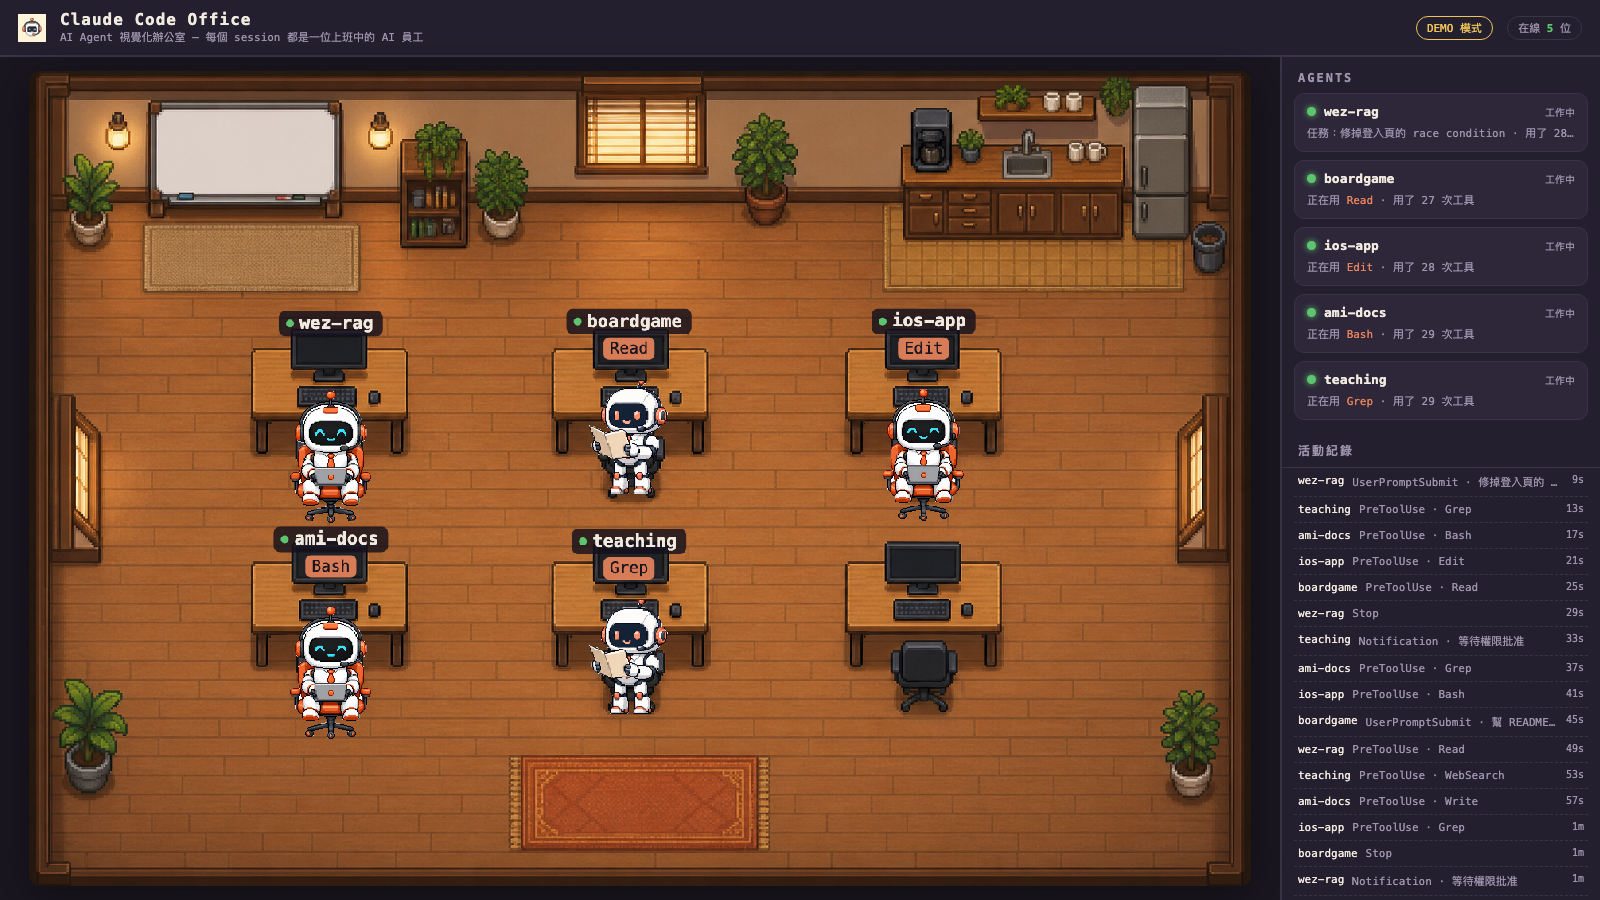
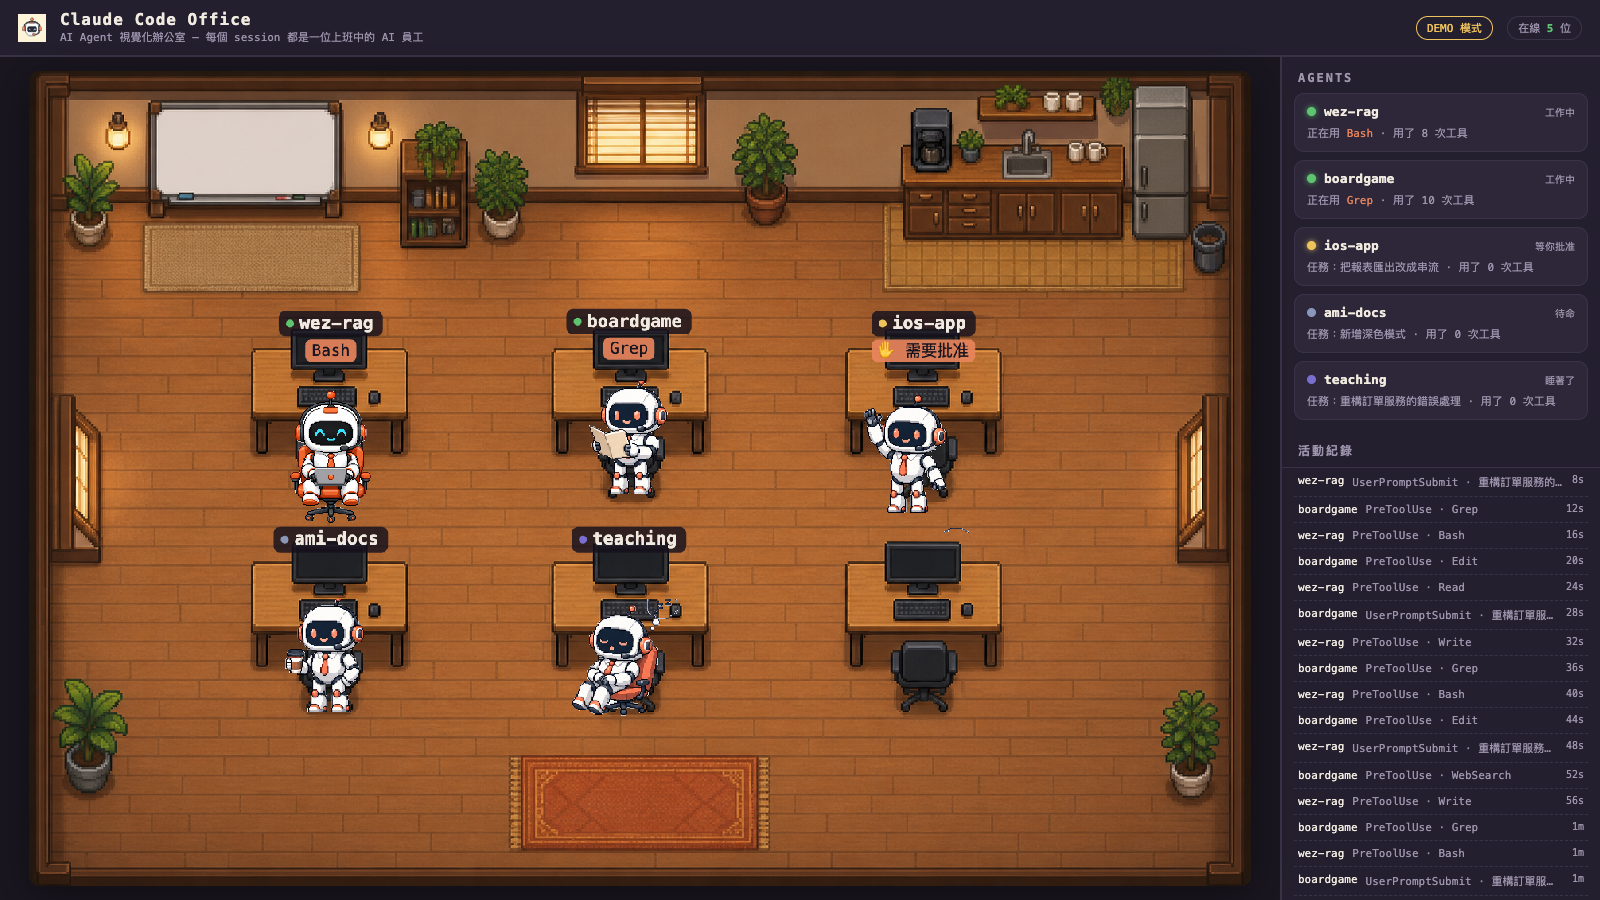
feat: 一鍵 hooks 安裝器 + demo 首屏五狀態展示 + README 接入流程通用化
- scripts/install-hooks.js：安全合併目標專案 settings.json、備份、idempotent
- demo 開場即展示 working/waiting/idle/sleeping 全部狀態
- README：安裝器指令、隱私說明、6 工位上限、撞名區分；更新主截圖
- reducer 撞名 disambiguate 測試 x3（20/20 綠）

diff --git a/scripts/install-hooks.js b/scripts/install-hooks.js
@@ -1,0 +1,113 @@
+#!/usr/bin/env node
+// 一鍵把 Claude Code Office 的 hooks 裝進「目標專案」的 .claude/settings.json。
+//
+//   node scripts/install-hooks.js <目標專案絕對路徑>
+//   node scripts/install-hooks.js .            # 裝進目前目錄的專案
+//
+// 特性：
+// - hook command 用「本 repo 的絕對路徑」自動填好，買家不用手改。
+// - 目標若已有 settings.json / 既有 hooks，安全合併：不覆蓋別的 hook，
+//   只加入本產品這支 office-hook.js（已存在就跳過，可重跑不重複）。
+// - 動目標檔前先備份成 settings.json.bak.<timestamp>。
+// - 全程印出做了什麼 + 最後給一句 round-trip 驗證指示。
+
+import { readFileSync, writeFileSync, existsSync, mkdirSync, copyFileSync } from 'node:fs';
+import { dirname, join, resolve, isAbsolute } from 'node:path';
+import { fileURLToPath } from 'node:url';
+
+const REPO_ROOT = resolve(dirname(fileURLToPath(import.meta.url)), '..');
+const HOOK_PATH = join(REPO_ROOT, 'hooks', 'office-hook.js');
+const HOOK_EVENTS = [
+  'SessionStart',
+  'UserPromptSubmit',
+  'PreToolUse',
+  'Notification',
+  'Stop',
+  'SessionEnd',
+];
+
+function fail(msg) {
+  console.error(`✗ ${msg}`);
+  process.exit(1);
+}
+
+function officeHookCommand() {
+  // 路徑含空白也安全：用雙引號包起來。
+  return `node "${HOOK_PATH}"`;
+}
+
+// 這一格（單一 event）裡是否已經有本產品的 hook？用 office-hook.js 這個檔名判斷，
+// 避免和買家自己的其他 hook 混淆，也讓重跑時 idempotent。
+function alreadyInstalled(entries) {
+  if (!Array.isArray(entries)) return false;
+  return entries.some((group) =>
+    Array.isArray(group?.hooks) &&
+    group.hooks.some((h) => typeof h?.command === 'string' && h.command.includes('office-hook.js')),
+  );
+}
+
+function officeHookGroup() {
+  return { hooks: [{ type: 'command', command: officeHookCommand() }] };
+}
+
+function mergeHooks(settings) {
+  const next = { ...settings, hooks: { ...(settings.hooks || {}) } };
+  const summary = [];
+  for (const eventName of HOOK_EVENTS) {
+    const existing = Array.isArray(next.hooks[eventName]) ? next.hooks[eventName] : [];
+    if (alreadyInstalled(existing)) {
+      summary.push(`  = ${eventName}（已裝，跳過）`);
+      continue;
+    }
+    next.hooks[eventName] = [...existing, officeHookGroup()];
+    summary.push(existing.length
+      ? `  + ${eventName}（併入既有 ${existing.length} 組 hook）`
+      : `  + ${eventName}`);
+  }
+  return { next, summary };
+}
+
+function main() {
+  const arg = process.argv[2];
+  if (!arg) {
+    fail('請給目標專案路徑：node scripts/install-hooks.js <目標專案絕對路徑>');
+  }
+  if (!existsSync(HOOK_PATH)) {
+    fail(`找不到 hook 檔：${HOOK_PATH}（是不是 repo 結構被動過？）`);
+  }
+
+  const targetProject = isAbsolute(arg) ? arg : resolve(process.cwd(), arg);
+  if (!existsSync(targetProject)) {
+    fail(`目標專案不存在：${targetProject}`);
+  }
+
+  const claudeDir = join(targetProject, '.claude');
+  const settingsPath = join(claudeDir, 'settings.json');
+  mkdirSync(claudeDir, { recursive: true });
+
+  let settings = {};
+  if (existsSync(settingsPath)) {
+    try {
+      settings = JSON.parse(readFileSync(settingsPath, 'utf8'));
+    } catch (err) {
+      fail(`目標 settings.json 不是合法 JSON，先修好再跑：${settingsPath}\n  ${err.message}`);
+    }
+    const backup = `${settingsPath}.bak.${Date.now()}`;
+    copyFileSync(settingsPath, backup);
+    console.log(`↩ 已備份既有設定：${backup}`);
+  }
+
+  const { next, summary } = mergeHooks(settings);
+  writeFileSync(settingsPath, `${JSON.stringify(next, null, 2)}\n`);
+
+  console.log(`\n✓ hooks 已寫入：${settingsPath}`);
+  console.log(`  hook 指令：${officeHookCommand()}`);
+  console.log(summary.join('\n'));
+  console.log('\n下一步（round-trip 驗證，別只信這行輸出）：');
+  console.log(`  1. cd ${REPO_ROOT} && npm start   # 要接真實事件必須 npm start（demo 模式看不到真實 session）`);
+  console.log(`  2. 在「${targetProject}」開一個 Claude Code session、送一則訊息`);
+  console.log('  3. 打開 http://localhost:4680 —— 該專案的員工應該走進辦公室');
+  console.log('     （沒出現就檢查：server 有沒有在跑、events.jsonl 有沒有新行）');
+}
+
+main();

diff --git a/src/demo.js b/src/demo.js
@@ -27,16 +27,14 @@ function pick(list, i) {
 export function createDemoFeed(now = Date.now()) {
   const events = [];
   const startedAt = now - 60_000;
+  const SLEEP_AGO = 12 * 60 * 1000; // 讓 demo-4 一開場就「睡著」（超過 10 分鐘沒動靜）
 
   DEMO_PROJECTS.forEach((cwd, i) => {
+    // demo-4 的事件戳在 12 分鐘前，好讓它一進畫面就是 sleeping。
+    const born = i === 4 ? now - SLEEP_AGO : startedAt + i * 1500;
+    events.push({ ts: born, hook_event_name: 'SessionStart', session_id: `demo-${i}`, cwd });
     events.push({
-      ts: startedAt + i * 1500,
-      hook_event_name: 'SessionStart',
-      session_id: `demo-${i}`,
-      cwd,
-    });
-    events.push({
-      ts: startedAt + i * 1500 + 800,
+      ts: born + 800,
       hook_event_name: 'UserPromptSubmit',
       session_id: `demo-${i}`,
       cwd,
@@ -44,25 +42,37 @@ export function createDemoFeed(now = Date.now()) {
     });
   });
 
+  // 開場就鋪滿五種狀態，首屏 5 秒內看到全部賣點：
+  //   demo-0 working（打字）、demo-1 working（用工具）、demo-2 waiting（舉手等批准）、
+  //   demo-3 idle（喝咖啡）、demo-4 sleeping（上面戳在 12 分鐘前）。
+  events.push({
+    ts: startedAt + 3000, hook_event_name: 'PreToolUse',
+    session_id: 'demo-1', cwd: DEMO_PROJECTS[1], tool_name: 'Edit',
+  });
+  events.push({
+    ts: startedAt + 3200, hook_event_name: 'Notification',
+    session_id: 'demo-2', cwd: DEMO_PROJECTS[2], message: '等待權限批准',
+  });
+  events.push({
+    ts: startedAt + 3400, hook_event_name: 'Stop',
+    session_id: 'demo-3', cwd: DEMO_PROJECTS[3],
+  });
+
   let cursor = events.length;
 
+  // 只讓「演示位」demo-0 / demo-1 動起來製造 working 的工具切換感；
+  // demo-2（waiting）、demo-3（idle）、demo-4（sleeping）維持開場鋪好的狀態當展示樣本，
+  // 這樣首屏永遠同時看得到五種狀態，又保留一點即時變化。
+  const ACTIVE = ['demo-0', 'demo-1'];
+
   function advance(current) {
-    // 每 4 秒左右讓某隻 agent 動一下，輪流製造 working / waiting / idle 的變化。
     const last = events[events.length - 1].ts;
     for (let t = last + 4000; t <= current; t += 4000) {
-      const i = cursor % DEMO_PROJECTS.length;
-      const roll = cursor % 9;
-      const base = { ts: t, session_id: `demo-${i}`, cwd: pick(DEMO_PROJECTS, i) };
-      if (roll === 7) {
-        events.push({ ...base, hook_event_name: 'Notification', message: '等待權限批准' });
-      } else if (roll === 8) {
-        events.push({ ...base, hook_event_name: 'Stop' });
-      } else if (roll === 4) {
-        events.push({
-          ...base,
-          hook_event_name: 'UserPromptSubmit',
-          prompt: pick(PROMPTS, cursor),
-        });
+      const sessionId = ACTIVE[cursor % ACTIVE.length];
+      const idx = Number(sessionId.split('-')[1]);
+      const base = { ts: t, session_id: sessionId, cwd: DEMO_PROJECTS[idx] };
+      if (cursor % 5 === 4) {
+        events.push({ ...base, hook_event_name: 'UserPromptSubmit', prompt: pick(PROMPTS, cursor) });
       } else {
         events.push({ ...base, hook_event_name: 'PreToolUse', tool_name: pick(TOOLS, cursor) });
       }

diff --git a/test/reducer.test.js b/test/reducer.test.js
@@ -122,6 +122,38 @@ test('deriveAgents：offline 超過 30 分鐘就從清單移除', () => {
   assert.equal(later.length, 0);
 });
 
+test('deriveAgents：同名專案 basename 撞名時補上層目錄後綴，分得清', () => {
+  let state = emptyState();
+  state = reduce(state, ev('SessionStart', {
+    session_id: 'sA', ts: T0, cwd: '/Users/yanchen/client-a/api',
+  }));
+  state = reduce(state, ev('SessionStart', {
+    session_id: 'sB', ts: T0 + 1, cwd: '/Users/yanchen/client-b/api',
+  }));
+  const names = deriveAgents(state, T0 + 2).map((a) => a.name).sort();
+  assert.deepEqual(names, ['api (client-a)', 'api (client-b)']);
+});
+
+test('deriveAgents：不撞名時名稱維持原樣（畫面零變動）', () => {
+  let state = emptyState();
+  state = reduce(state, ev('SessionStart', {
+    session_id: 'sA', ts: T0, cwd: '/Users/yanchen/workspace/wez-rag',
+  }));
+  state = reduce(state, ev('SessionStart', {
+    session_id: 'sB', ts: T0 + 1, cwd: '/Users/yanchen/workspace/boardgame',
+  }));
+  const names = deriveAgents(state, T0 + 2).map((a) => a.name).sort();
+  assert.deepEqual(names, ['boardgame', 'wez-rag']);
+});
+
+test('deriveAgents：撞名但無上層目錄可用時退回 session 短碼', () => {
+  let state = emptyState();
+  state = reduce(state, ev('SessionStart', { session_id: 'aaaa-1', ts: T0, cwd: '/api' }));
+  state = reduce(state, ev('SessionStart', { session_id: 'bbbb-2', ts: T0 + 1, cwd: '/api' }));
+  const names = deriveAgents(state, T0 + 2).map((a) => a.name).sort();
+  assert.deepEqual(names, ['api (aaaa)', 'api (bbbb)']);
+});
+
 test('活動 feed 記錄事件、上限 50 筆、最新在前', () => {
   let state = emptyState();
   for (let i = 0; i < 60; i++) {